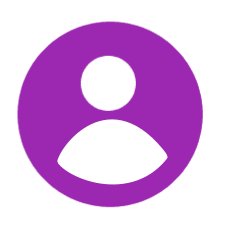
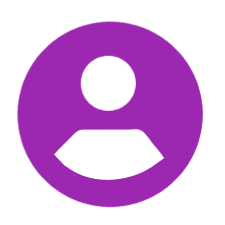
styling and vote page select option error fixed

Changed region(s): [[0.2489, 0.5289, 0.7467, 0.84], [0.3111, 0.5911, 0.3422, 0.6222], [0.28, 0.6222, 0.3111, 0.6533]]

diff --git a/templates/login.html b/templates/login.html
@@ -1,10 +1,11 @@
 {% extends "layout.html" %}
 {% block title %}Log In{% endblock %}
 {% block body %}
-    <h2 class="text-center">LOG IN </h2>
-    <div class="row">
-        <div class="col-md-6 offset-sm-3" >
-            <div class="shadow-lg mb-8 rounded"  style="padding-bottom:5em;background-color:white;"id="card">
+    
+    <div class="row ">
+        <div class="col-md-4 offset-sm-4" >
+        <h2 class="text-center">LOG IN </h2>
+            <div class="shadow-lg mb-8 rounded"  style="padding-bottom:2em;margin-top:1em;background-color:white;"id="card">
                 <form action="/login" method="post" >
                     <div id="topPad">
                         {% with messages = get_flashed_messages() %}
@@ -15,10 +16,10 @@
                         {% endif %}
                         {% endwith %}
                     </div>
+                    
                     <div class="imgcontainer">
                         <img src="static/img_avatar2.png" alt="Avatar" class="avatar">
-                    </div>
-
+                    </div> 
                     <div class="container">
                         <label for="username"><b>Username</b></label>
                         <input type="text" placeholder="Enter Username" name="username" required>
@@ -26,7 +27,7 @@
                         <label for="password"><b>Password</b></label>
                         <input type="password" placeholder="Enter Password" name="password" required>
                         <input type="hidden" name="next" value="{{next}}">
-                        <button type="submit" style="background-color:#9c27b0;margin-top:2em;border:1px solid white;border-radius:27px;">LOG IN</button>
+                        <button type="submit" style="background-color:#9c27b0;margin-top:2em;border:1px solid white;border-radius:27px;padding: 14px 20px;margin: 8px 0;">LOG IN</button>
                         <label>
                         <input type="checkbox" checked="checked" name="remember"> Remember me
                         </label>
@@ -35,7 +36,7 @@
                 </form>
                 <form action="/register" method="GET">
                     <input type="hidden" name="next" value="{{arg[1]}}"/>
-                    <span class="psw"><button type="submit" style="background-color:#9c27b0;border-radius:27px;" value="New User?">New User?</button>
+                    <span class="psw"><button type="submit" style="background-color:#9c27b0;border-radius:27px;padding: 14px 20px;margin: 8px 0;" value="New User?">New User?</button>
                     </span>
                 </form>
                    </div>

diff --git a/static/style.css b/static/style.css
@@ -1,6 +1,7 @@
 @import url('https://fonts.googleapis.com/css?family=Roboto');
 @import url('https://fonts.googleapis.com/css2?family=Poppins:wght@300&display=swap');
 @import url('https://fonts.googleapis.com/css2?family=Montserrat&display=swap');
+@import url('https://fonts.googleapis.com/css2?family=Titillium+Web:wght@600&display=swap');
 
 h1 {
     color:white;
@@ -16,7 +17,9 @@ h2 {
    font-weight:bold;
    color:#9c27b0;
    font-size:40px;
-   margin-top: 1em;
+        font-family: 'Titillium Web', sans-serif;
+   
+   margin-top: 0.5em;
   }
 h3 {
    font-weight:bold;
@@ -47,14 +50,14 @@ h3 {
 	align-items: center;
 	color:white;
 	background-color: #0063B1;
-	border:1px solid white;
+	border:2px solid white;
 	}
 #view{
 	background-color: #0063B1;
 	}
 #card{
 	display: flex;
-	background-color:#d7c3df;
+	background-color:WHITE;
 	border:2px solid #9c27b0;
 	}
 #date{
@@ -94,6 +97,8 @@ h4{
 	justify-content: center;
 	align-items: center;
 	color:white;
+	border-radius:15px;
+	border: 2px solid red;
 	background-color:#9c27b0 ;
 	}
 #alert{
@@ -101,10 +106,11 @@ h4{
 	height: 60px;
 	font-weight:bold;
 	margin: 2em;
+	border-radius:15px;
+	border: 2px solid red;
 	justify-content: center;
 	align-items: center;
-	color:white;
-	background-color:#9c27b0 ;
+	color:red;
 	}
 
 body{
@@ -133,8 +139,6 @@ input[type=text], input[type=password] {
 button {
   background-color: #0063B1;
   color: white;
-  padding: 14px 20px;
-  margin: 8px 0;
   border: none;
   cursor: pointer;
   width: 100%;
@@ -161,24 +165,19 @@ button:hover {
 
 .imgcontainer {
   text-align: center;
-  margin: 24px 0 12px 0;
+  margin: 5px 0 5px 0;
 }
 
 
 img.avatar {
-  padding-top:2em;
-  width: 30%;
+  width: 35%;
 }
 
 
-.container {
-  padding: 20px;
-}
 
 
 span.psw {
   float: right;
-  padding-top: 16px;
 }
 
 

diff --git a/templates/vote.html b/templates/vote.html
@@ -4,16 +4,26 @@
 
 {% block body %}
   <h2 class="text-center">VOTE HERE</h2>
+  
   <form action="{{url_for('main.vote',userId=userId,pollId=pollId)}}" method="post">
   <div class="row">
     <div class="col-sm-6 offset-sm-3">
+    <hr/>
+         <div id="topPad">
+                        {% if message %}
+                        <div class="notification is-danger" id ="alert">
+                            {{ message }}
+                        </div>
+                        {% endif %}
+                    </div>
     	<div class="shadow-lg mb-5 rounded">
-        	<div class="jumbotron">
+        	<div class="jumbotron" style="background-color:white;border:2px solid #9c27b0;">
+        	    
             	<div class="text-center">
             		<h4>{{title}}</h4>
             		<hr/>
                       <select class="custom-select custom-select-lg mb-3" name="selected" >
-                          <option selected>Select</option>
+                          <option selected >Select</option>
                           {% for option in pollOption %}
                             {% if 'NONE' not in option %}
                                 <option>{{option}}</option>
@@ -23,7 +33,7 @@
 	             </div>
              </div>
         </div>
-      <button class="btn btn-primary btn-lg" type="submit">DONE</button>
+      <button class="btn btn-primary btn-lg" type="submit" style="background-color:#9c27b0;margin-top:2em;border-radius:27px;padding: 14px 20px;margin: 8px 0;">DONE</button>
     <a class="btn btn-primary btn-lg" id= "create"  href="/">GO HOME</a>
     </div>
   </div>

diff --git a/templates/register.html b/templates/register.html
@@ -5,14 +5,14 @@
 {% block body %}
   <h2 class="text-center">REGISTER</h2>
   <div class="row">
-		<div class="col-md-6 offset-sm-3">
+		<div class="col-md-4 offset-sm-4">
 		    <div class="shadow-lg mb-5 rounded"  style="background-color:white;padding-bottom:3em;" id="card">
 			   <form action="/register" method="post" >
 			    <div id="topPad">
 			       {% with messages = get_flashed_messages() %}
                     {% if messages %}
                         <div class="notification is-danger" id ="alert">
-                            {{ messages[0] }}. Go to <a href="{{ url_for('auth.login',next=next) }}" style="color:#FFFFFF; padding-left:0.5em;"> login page</a>.
+                            {{ messages[0] }}. Go to <a href="{{ url_for('auth.login',next=next) }}" style="color:#9c27b0; padding-left:0.5em;"> login page</a>.
                         </div>
                     {% endif %}
                     {% endwith %}
@@ -28,7 +28,7 @@
 					<label for="psw"><b>Password</b></label>
 					<input type="password" placeholder="Enter Password" name="password" required>
                     <input type="hidden" name="next" value="{{next}}">
-					<button type="submit" style="background-color:#9c27b0;margin-top:2em;border-radius:27px;" >REGISTER </button>
+					<button type="submit" style="background-color:#9c27b0;margin-top:2em;border-radius:27px;padding: 14px 20px;margin: 8px 0;" >REGISTER </button>
 				  </div>
 				</form> 
 			</div>

diff --git a/templates/index.html b/templates/index.html
@@ -10,7 +10,7 @@
                 {% if message %}
                     <div class="alert alert-warning alert-dismissible fade show " id ="alert_in" style="text-align:center;" role="alert">
                         <strong>{{ message }}</strong>
-                        <button type="button" class="close" data-dismiss="alert"  aria-label="Close">
+                        <button type="button" class="close" data-dismiss="alert"  aria-label="Close" style="float: right;color:white;">
                         <span aria-hidden="true" style="float: right;color:white;">&times;</span>
                         </button>
                     </div>

diff --git a/auth.py b/auth.py
@@ -22,17 +22,13 @@ def login():
         if not user or not check_password_hash(user.password, password):
             flash('Please check your login details and try again.')
             return redirect(url_for('auth.login',next=next))
-        args=next.split('/',4)
-        print(args)
-        
-        print(len(args))  
+        args=next.split('/',4) 
         if next != "/" and next !='' and args[1] == "vote"  :
             login_user(user, remember=remember)
             return redirect(url_for('main.vote',userId=int(args[2]),pollId=int(args[3])))  
         elif len(args)==2 and args[0]!='':
             login_user(user, remember=remember)
             return redirect(url_for('main.vote',userId=int(args[0]),pollId=int(args[1])))
-    print("index")
     login_user(user, remember=remember)
     return redirect(url_for('main.index'))
     

diff --git a/main.py b/main.py
@@ -84,11 +84,14 @@ def vote(userId,pollId):
         if poll.date<=today:
             poll.closed=True
             message="Requested Poll has been closed!"
-            print(message)
             return render_template('index.html',message=message)
         return render_template("vote.html",userId=userId,pollId=poll.id,title=poll.title,pollOption=pollOption)
     if request.method == 'POST':
+    
         select = request.form['selected']
+        if select=="Select":
+            message="Please select any of the option given!!!"
+            return render_template("vote.html",userId=userId,pollId=poll.id,title=poll.title,pollOption=pollOption,message=message)
         index=pollOption.index(select)
         option=f"option{index+1}"
         polling = Pollings.query.filter_by( id = poll.id).first()
